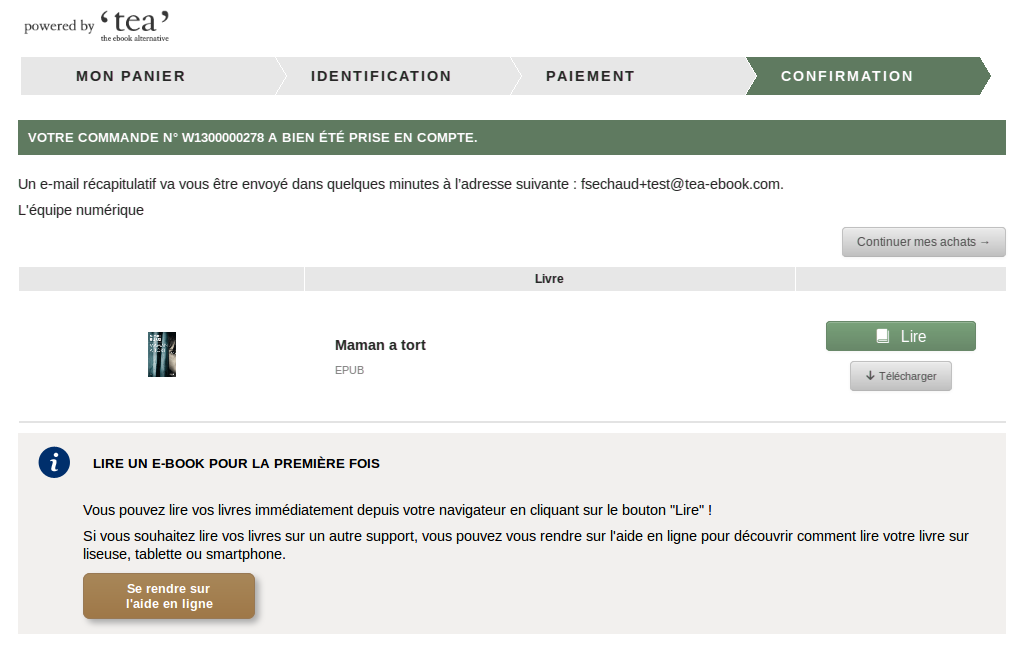
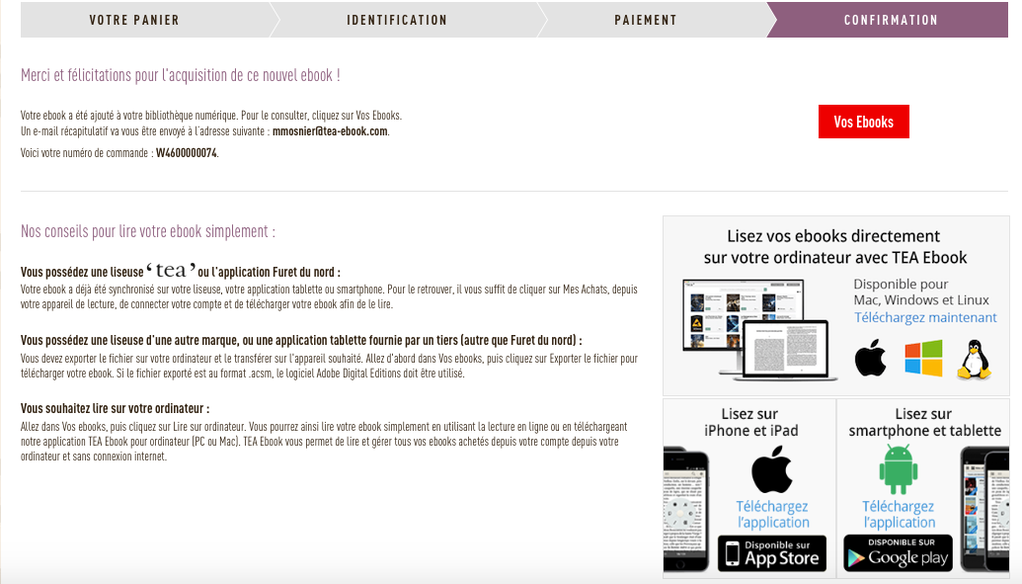
Nouveau parcours à la fin d'une commande

diff --git a/_includes/acheter-ordinateur.md b/_includes/acheter-ordinateur.md
@@ -44,6 +44,7 @@ Entrez le numéro de votre carte, la date d’expiration de votre carte ainsi qu
 
 ### Finalisation de la commande
 
-Une fois la commande terminée, vous pouvez retrouver un récapitulatif de votre commande vous permettant de télécharger vos livres et un mail vous est automatiquement envoyé.
+Une fois le paiement effectué, vous retrouvez la confirmation de votre commande et la possibilité d’aller consulter la liste de vos ebooks. Un mail de confirmation de commande vous est envoyé.
+Nous vous donnons quelques conseils pour lire vos ebooks sur l’ensemble des supports de lecture : applications, liseuses et ordinateur.
 
 ![](/images/acheter-ordinateur-8.png)
